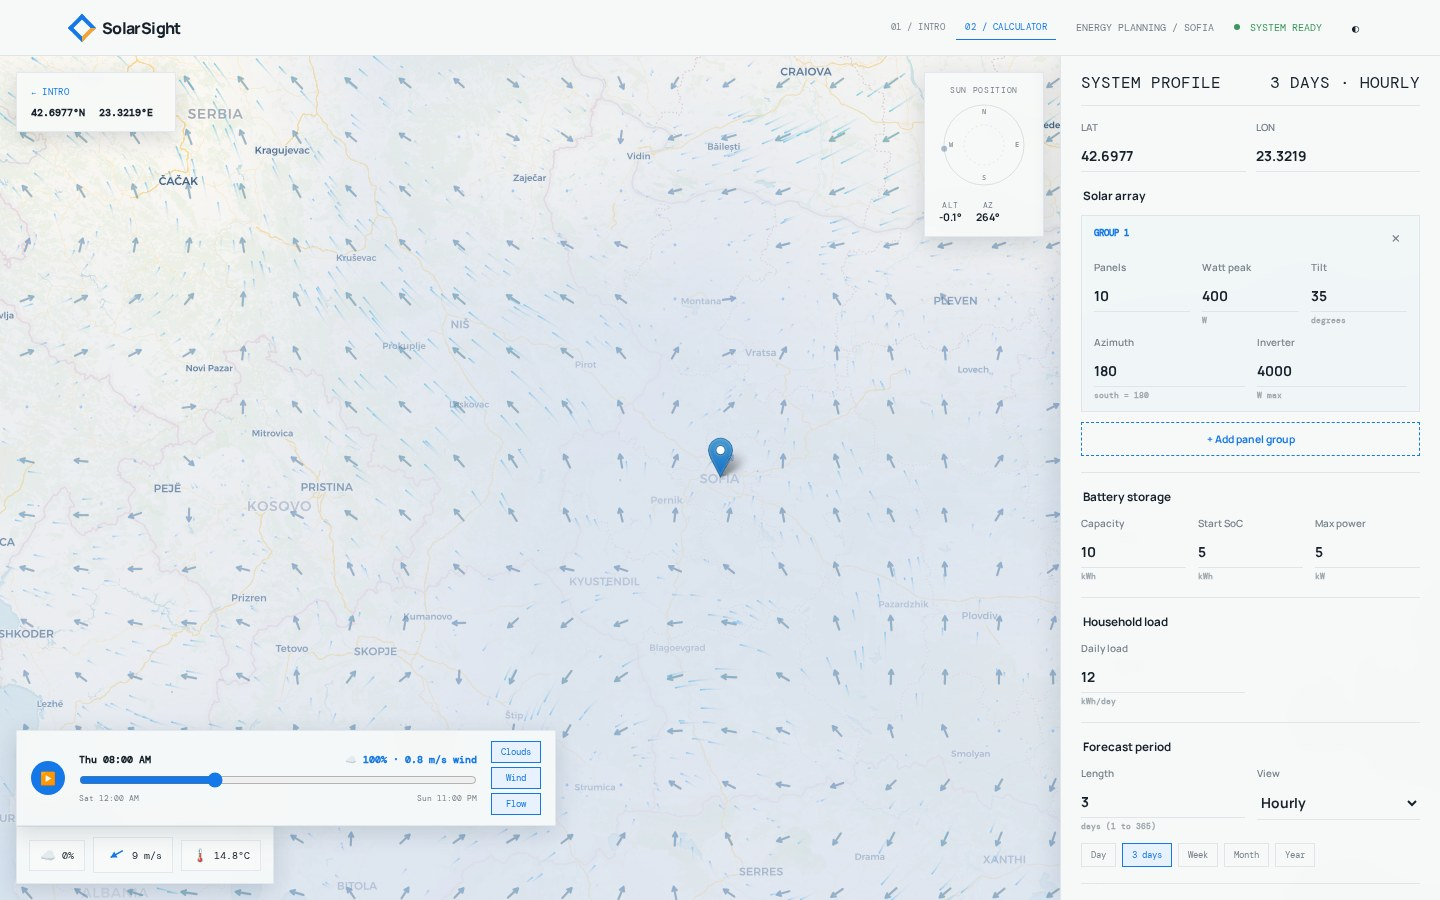
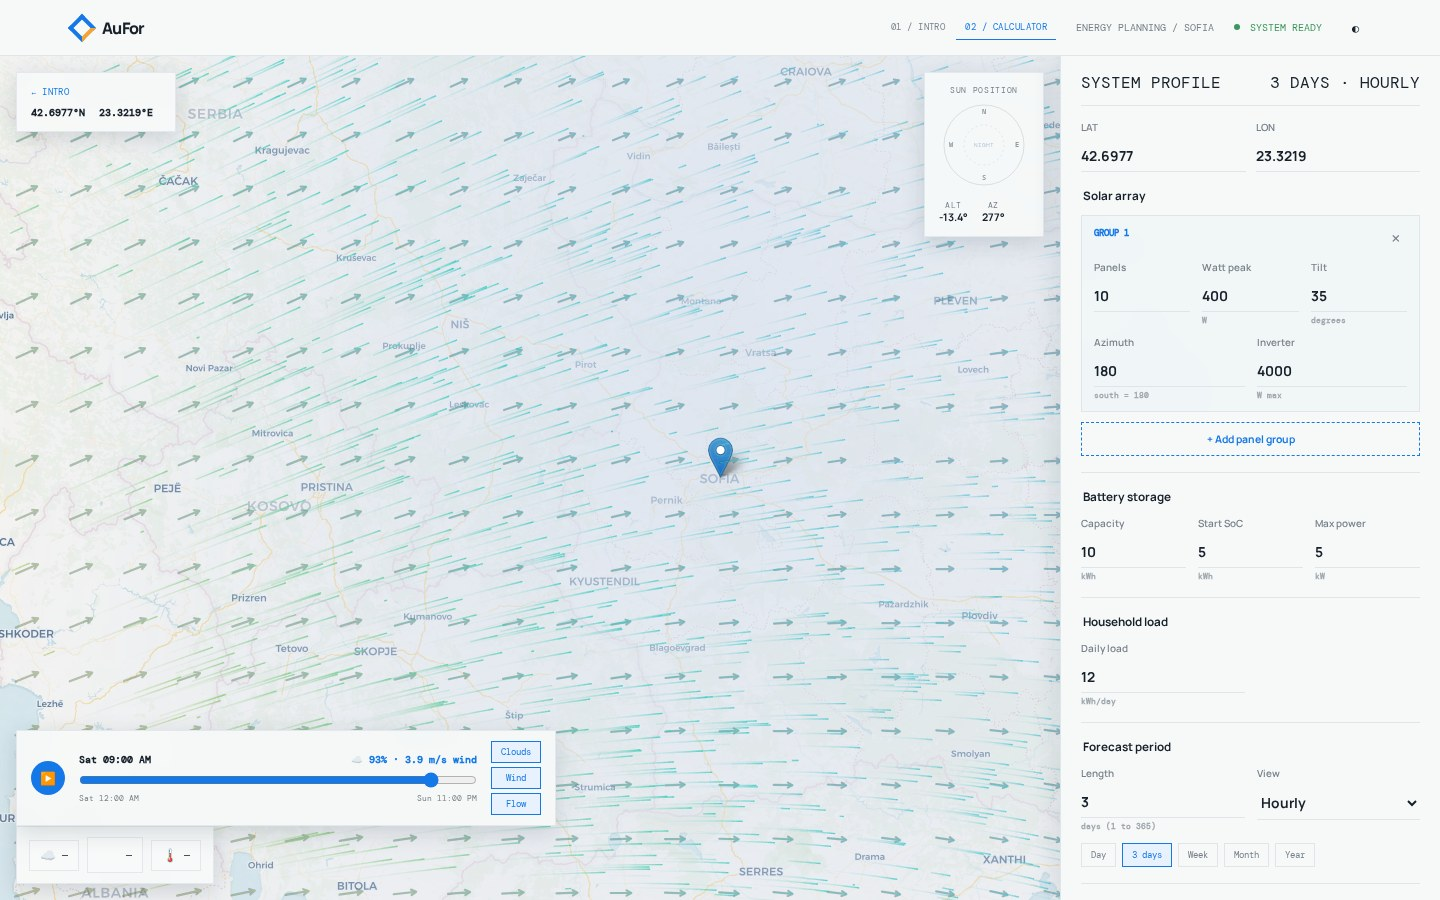
chore: rename the project to AuFor; friendlier weather rate-limit errors

diff --git a/static/app.js b/static/app.js
@@ -547,7 +547,7 @@ function initMap() {
   cloudPane.style.zIndex = 350;
   cloudPane.classList.add("cloud-pane");
   L.control.zoom({ position: "bottomright" }).addTo(map);
-  const cartoKey = window.SOLARSIGHT_CONFIG?.cartoApiKey;
+  const cartoKey = window.AUFOR_CONFIG?.cartoApiKey;
   const tileUrl = cartoKey
     ? `https://basemaps.cartocdn.com/rastertiles/voyager/{z}/{x}/{y}{r}.png?key=${encodeURIComponent(cartoKey)}`
     : "https://{s}.basemaps.cartocdn.com/light_all/{z}/{x}/{y}{r}.png";
@@ -841,12 +841,12 @@ function nearestFieldIndex(epoch, toleranceSeconds) {
 
 function currentEpoch() { return cloudField ? cloudField.times[timeIndex] : null; }
 
-function showHoverPill(text) {
+function showHoverPill(text, ms = 2200) {
   const pill = document.getElementById("hover-pill");
   pill.textContent = text;
   pill.hidden = false;
   clearTimeout(pillTimer);
-  pillTimer = setTimeout(() => { pill.hidden = true; }, 2200);
+  pillTimer = setTimeout(() => { pill.hidden = true; }, ms);
 }
 
 function togglePlay() {
@@ -916,7 +916,8 @@ async function loadCloudField(view) {
     payload = body;
   } catch (error) {
     if (request !== fieldRequest) return;
-    if (String(error.message).includes("zoom in")) showHoverPill("Zoom in to see the cloud forecast");
+    const reason = String(error.message || "");
+    showHoverPill(reason.includes("zoom in") ? "Zoom in to see the cloud forecast" : `Cloud map unavailable: ${reason.slice(0, 160)}`, 9000);
     if (!cloudField) timeline.hidden = true;
     return;
   }
@@ -1038,7 +1039,7 @@ function applyPreset(button) {
 /* ── Theme ───────────────────────────────────────────────────────── */
 function toggleTheme() {
   document.body.classList.toggle("dark-theme");
-  localStorage.setItem("solarsight-theme", document.body.classList.contains("dark-theme") ? "dark" : "light");
+  localStorage.setItem("aufor-theme", document.body.classList.contains("dark-theme") ? "dark" : "light");
   if (map) map.invalidateSize();
   updateSunNow(getLat(), getLon());
   renderCloudFrame();
@@ -1051,7 +1052,7 @@ function toggleTheme() {
 /* ── Boot ────────────────────────────────────────────────────────── */
 document.addEventListener("DOMContentLoaded", () => {
   addPanelGroup();
-  if (localStorage.getItem("solarsight-theme") === "dark") document.body.classList.add("dark-theme");
+  if (localStorage.getItem("aufor-theme") === "dark") document.body.classList.add("dark-theme");
 
   initView();
 

diff --git a/templates/index.html b/templates/index.html
@@ -3,7 +3,7 @@
   <head>
     <meta charset="utf-8" />
     <meta name="viewport" content="width=device-width, initial-scale=1" />
-    <title>SolarSight | Energy planning</title>
+    <title>AuFor | Energy planning</title>
     <link rel="preconnect" href="https://fonts.googleapis.com" />
     <link rel="preconnect" href="https://fonts.gstatic.com" crossorigin />
     <link href="https://fonts.googleapis.com/css2?family=DM+Mono:wght@400;500&family=Manrope:wght@400;500;600;700;800&display=swap" rel="stylesheet" />
@@ -12,9 +12,9 @@
   </head>
   <body data-view="{{ view }}">
     <header class="topbar">
-      <a class="brand" href="/" aria-label="SolarSight home">
+      <a class="brand" href="/" aria-label="AuFor home">
         <span class="brand-mark" aria-hidden="true"></span>
-        <span>SolarSight</span>
+        <span>AuFor</span>
       </a>
       <div class="topbar-meta">
         <nav class="view-tabs" aria-label="Main views">
@@ -31,9 +31,9 @@
     <div id="landing-wrap" {% if view == "calculator" %}hidden{% endif %}>
       <section id="landing-view" class="landing-view reveal">
         <div class="landing-hero">
-          <p class="kicker">SOLARSIGHT / ATANASOFF__48 / ENERGIA OKOLO NAS</p>
+          <p class="kicker">AUFOR / ATANASOFF__48 / ENERGIA OKOLO NAS</p>
           <h1>Plan the energy<br /><em>before it arrives.</em></h1>
-          <p class="hero-sub">A forecast isn't useful unless it tells you what to do. SolarSight predicts solar production, simulates your battery, and turns numbers into decisions.</p>
+          <p class="hero-sub">A forecast isn't useful unless it tells you what to do. AuFor predicts solar production, simulates your battery, and turns numbers into decisions.</p>
           <a href="/calculator" class="primary-button landing-button"><span>Open calculator</span><b>↗</b></a>
         </div>
 
@@ -279,11 +279,11 @@
       </div>
     </section>
 
-    <footer><span>SOLARSIGHT / PROTOTYPE</span><span>WEATHER + PHYSICS + DECISIONS</span></footer>
+    <footer><span>AUFOR / PROTOTYPE</span><span>WEATHER + PHYSICS + DECISIONS</span></footer>
 
     <script src="https://unpkg.com/leaflet@1.9.4/dist/leaflet.js"></script>
     <script src="https://cdn.jsdelivr.net/npm/chart.js@4.4.7/dist/chart.umd.min.js"></script>
-    <script>window.SOLARSIGHT_CONFIG = { cartoApiKey: {{ carto_api_key | tojson }} };</script>
+    <script>window.AUFOR_CONFIG = { cartoApiKey: {{ carto_api_key | tojson }} };</script>
     <script src="{{ url_for('static', path='app.js') }}?v={{ asset_v }}"></script>
   </body>
 </html>

diff --git a/scripts/make_screenshots.py b/scripts/make_screenshots.py
@@ -1,0 +1,117 @@
+#!/usr/bin/env python3
+"""Take the README screenshots from the running app (development helper, not needed to run AuFor).
+
+Starts the server on a temporary database, drives it with a headless Chromium, posts SIMULATED readings
+and saves the pictures to docs/screenshots. Needs Playwright, which is NOT in requirements.txt:
+
+    pip install playwright && python -m playwright install chromium
+    python scripts/make_screenshots.py            # real weather (needs Open-Meteo quota and internet)
+    python scripts/make_screenshots.py --mock     # bundled mock weather: works offline, clearly labelled MOCK in the page
+
+Every map fetch costs about 150 Open-Meteo calls out of the free 10,000 a day, so do not run this in a loop.
+"""
+
+from __future__ import annotations
+
+import argparse
+import os
+import subprocess
+import sys
+import tempfile
+import time
+import urllib.request
+from pathlib import Path
+
+ROOT = Path(__file__).resolve().parent.parent
+PORT = 8114
+
+
+def wait_for_server(url: str) -> None:
+    for _ in range(100):
+        try:
+            urllib.request.urlopen(url + "/api/health", timeout=1)
+            return
+        except OSError:
+            time.sleep(0.2)
+    raise RuntimeError("the server did not start")
+
+
+def take(url: str, out: Path, env: dict) -> None:
+    from playwright.sync_api import sync_playwright  # noqa: PLC0415 - only needed by this script
+
+    jpeg = {"type": "jpeg", "quality": 88}
+    with sync_playwright() as playwright:
+        browser = playwright.chromium.launch()
+        page = browser.new_page(viewport={"width": 1440, "height": 900})
+        page.goto(url + "/")
+        page.wait_for_load_state("networkidle")
+        page.wait_for_timeout(900)
+        page.screenshot(path=str(out / "intro.jpg"), **jpeg)
+
+        page.goto(url + "/calculator")
+        page.wait_for_selector("#map-timeline:not([hidden])", timeout=30000)
+        page.wait_for_timeout(2500)
+        cloudiest = page.evaluate(
+            "(() => { let best = 0, top = -1; for (let i = 0; i < cloudField.times.length; i++) "
+            "{ const s = conditionsAtSite(i); if (s && s.cloud > top) { top = s.cloud; best = i; } } return best; })()"
+        )
+        page.evaluate(f"setTimeIndex({cloudiest})")
+        page.wait_for_timeout(2200)
+        print("cloudiest hour:", page.inner_text("#tl-time"), "|", page.inner_text("#tl-cloud"))
+        page.screenshot(path=str(out / "map-clouds-wind.jpg"), **jpeg)
+        page.click("#toggle-flow")
+        page.wait_for_timeout(2800)
+        page.screenshot(path=str(out / "map-wind-flow.jpg"), **jpeg)
+        page.click("#toggle-flow")
+
+        subprocess.run([sys.executable, str(ROOT / "scripts" / "fake_readings.py"), "--server", url, "--step-minutes", "10", "--seed", "1"],
+                       env=env, capture_output=True, cwd=ROOT)
+        page.click("#forecast-button")
+        page.wait_for_function("document.getElementById('kpi-energy').textContent !== '—'", timeout=30000)
+        page.wait_for_function("document.getElementById('readings-tag').textContent.startsWith('SIMULATED')", timeout=15000)
+        page.wait_for_timeout(1500)
+        page.evaluate("document.getElementById('results').scrollIntoView()")
+        page.wait_for_timeout(1500)
+        page.screenshot(path=str(out / "results.png"))
+        page.locator("#readings-card").screenshot(path=str(out / "live-readings.png"))
+        page.evaluate("document.querySelector('.recommendations').scrollIntoView()")
+        page.wait_for_timeout(900)
+        box = page.evaluate(
+            "(() => { const a = document.querySelector('.recommendations').getBoundingClientRect(), "
+            "z = document.querySelector('.explanation').getBoundingClientRect(); return {y: a.top, h: z.bottom - a.top}; })()"
+        )
+        page.screenshot(path=str(out / "recommendations.png"),
+                        clip={"x": 60, "y": max(0, box["y"] - 20), "width": 1320, "height": min(box["h"] + 40, 880)})
+
+        page.evaluate("window.scrollTo(0, 0)")
+        page.wait_for_timeout(500)
+        page.click("#theme-toggle")
+        page.wait_for_timeout(2500)
+        page.screenshot(path=str(out / "map-dark.jpg"), **jpeg)
+        browser.close()
+
+
+def main() -> int:
+    parser = argparse.ArgumentParser(description="Take the README screenshots.")
+    parser.add_argument("--mock", action="store_true", help="use the bundled mock weather (offline)")
+    parser.add_argument("--out", default=str(ROOT / "docs" / "screenshots"))
+    args = parser.parse_args()
+    out = Path(args.out)
+    out.mkdir(parents=True, exist_ok=True)
+    with tempfile.TemporaryDirectory() as temp:
+        env = {**os.environ, "DATABASE_PATH": str(Path(temp) / "shots.db"), "LLM_ENABLED": "0", "READINGS_API_KEY": ""}
+        env["USE_MOCK_WEATHER"] = "1" if args.mock else "0"
+        url = f"http://127.0.0.1:{PORT}"
+        server = subprocess.Popen([sys.executable, "-m", "uvicorn", "main:app", "--port", str(PORT), "--log-level", "warning"], env=env, cwd=ROOT)
+        try:
+            wait_for_server(url)
+            take(url, out, env)
+        finally:
+            server.terminate()
+            server.wait(timeout=10)
+    print("saved:", ", ".join(sorted(p.name for p in out.iterdir())))
+    return 0
+
+
+if __name__ == "__main__":
+    sys.exit(main())

diff --git a/scripts/pi_cloud_agent.py b/scripts/pi_cloud_agent.py
@@ -1,5 +1,5 @@
 #!/usr/bin/env python3
-"""Sky-camera agent for the Raspberry Pi: photo -> cloud fraction -> SolarSight server.
+"""Sky-camera agent for the Raspberry Pi: photo -> cloud fraction -> AuFor server.
 
 Runs on the machine that has the camera and tx's PyTorch model. It takes a sky photo,
 measures the cloud fraction with cloud_predictor.run (the same code tx wrote), and POSTs
@@ -72,7 +72,7 @@ def post_reading(server: str, reading: dict, api_key: str | None = None, timeout
         if error.code == 409:
             return "duplicate"  # the server already has this reading
         if error.code in (401, 403):
-            raise AuthError("the server refused the API key (check --api-key / SOLARSIGHT_API_KEY)") from error
+            raise AuthError("the server refused the API key (check --api-key / AUFOR_API_KEY)") from error
         if error.code == 429 or error.code >= 500:
             return "retry"
         detail = error.read().decode(errors="replace")[:200]
@@ -180,9 +180,9 @@ def cycle(args: argparse.Namespace) -> str:
 
 
 def parse_args(argv: list[str] | None = None) -> argparse.Namespace:
-    parser = argparse.ArgumentParser(description="Measure cloud cover from a sky photo and send it to SolarSight.")
-    parser.add_argument("--server", default=os.environ.get("SOLARSIGHT_SERVER", "http://127.0.0.1:8000"))
-    parser.add_argument("--api-key", default=os.environ.get("SOLARSIGHT_API_KEY"))
+    parser = argparse.ArgumentParser(description="Measure cloud cover from a sky photo and send it to AuFor.")
+    parser.add_argument("--server", default=os.environ.get("AUFOR_SERVER", "http://127.0.0.1:8000"))
+    parser.add_argument("--api-key", default=os.environ.get("AUFOR_API_KEY"))
     source = parser.add_mutually_exclusive_group()
     source.add_argument("--image", help="measure this photo instead of taking one")
     source.add_argument("--capture-cmd", help='camera command with {path}, e.g. "rpicam-still -n -t 500 -o {path}"')
@@ -200,7 +200,7 @@ def parse_args(argv: list[str] | None = None) -> argparse.Namespace:
 
 def main(argv: list[str] | None = None) -> int:
     args = parse_args(argv)
-    print(f"SolarSight camera agent -> {args.server} (every {args.interval:.0f}s, radius {args.radius}px)")
+    print(f"AuFor camera agent -> {args.server} (every {args.interval:.0f}s, radius {args.radius}px)")
     while True:
         print(time.strftime("%H:%M:%S"))
         try:

diff --git a/tests/test_weather.py b/tests/test_weather.py
@@ -187,3 +187,54 @@ def test_parse_weather_survives_the_daylight_saving_change() -> None:
     frame = weather.parse_weather(payload)
     assert frame.index.is_unique and frame.index.is_monotonic_increasing
     assert len(frame) >= 8
+
+
+def test_a_rate_limit_gives_a_short_readable_message_not_the_url(monkeypatch: pytest.MonkeyPatch) -> None:
+    class Limited:
+        status_code = 429
+
+        def json(self) -> dict:
+            return {"error": True, "reason": "Daily API request limit exceeded. Please try again tomorrow."}
+
+    class FakeClient:
+        def __init__(self, *, timeout: float) -> None:
+            pass
+
+        def __enter__(self) -> "FakeClient":
+            return self
+
+        def __exit__(self, *args: object) -> bool:
+            return False
+
+        def get(self, url: str, params: dict) -> object:
+            request = httpx.Request("GET", url, params={"latitude": ",".join(["42.5"] * 600)})
+            response = httpx.Response(429, json=Limited().json(), request=request)
+            response.raise_for_status()
+
+    monkeypatch.setattr(weather.httpx, "Client", FakeClient)
+    with pytest.raises(weather.WeatherError) as caught:
+        weather._get_json(weather.OPEN_METEO_URL, {})
+    message = str(caught.value)
+    assert "free request limit" in message and "try again tomorrow" in message.lower() and "USE_MOCK_WEATHER=1" in message
+    assert "latitude" not in message and len(message) < 300  # no 4 KB URL
+
+
+def test_other_http_errors_name_the_status_without_the_url(monkeypatch: pytest.MonkeyPatch) -> None:
+    class FakeClient:
+        def __init__(self, *, timeout: float) -> None:
+            pass
+
+        def __enter__(self) -> "FakeClient":
+            return self
+
+        def __exit__(self, *args: object) -> bool:
+            return False
+
+        def get(self, url: str, params: dict) -> object:
+            response = httpx.Response(503, text="down", request=httpx.Request("GET", url))
+            response.raise_for_status()
+
+    monkeypatch.setattr(weather.httpx, "Client", FakeClient)
+    with pytest.raises(weather.WeatherError, match="Open-Meteo answered HTTP 503") as caught:
+        weather._get_json(weather.OPEN_METEO_URL, {})
+    assert "http" not in str(caught.value).lower().replace("http 503", "")

diff --git a/app/weather.py b/app/weather.py
@@ -1,4 +1,4 @@
-"""Fetch and parse hourly weather data for SolarSight.
+"""Fetch and parse hourly weather data for AuFor.
 
 This module owns Open-Meteo access and the offline mock-weather switch. It does
 not calculate solar power, simulate batteries, or translate errors into HTTP responses.
@@ -110,12 +110,26 @@ def parse_weather(payload: dict[str, Any]) -> pd.DataFrame:
     return frame
 
 
+def _status_message(response: httpx.Response) -> str:
+    """A short, readable reason for an HTTP error (never the request URL, which can be thousands of characters)."""
+    try:
+        reason = str(response.json().get("reason", ""))
+    except ValueError:
+        reason = ""
+    if response.status_code == 429:
+        return (f"Open-Meteo's free request limit is used up for now ({reason or 'HTTP 429'}). "
+                "Try again later, or run with USE_MOCK_WEATHER=1 to work offline")
+    return f"Open-Meteo answered HTTP {response.status_code}" + (f": {reason}" if reason else "")
+
+
 def _get_json(url: str, params: dict[str, Any]) -> dict[str, Any]:
     try:
         with httpx.Client(timeout=WEATHER_TIMEOUT_SECONDS) as client:
             response = client.get(url, params=params)
             response.raise_for_status()
             return response.json()
+    except httpx.HTTPStatusError as error:
+        raise WeatherError(f"Unable to fetch weather: {_status_message(error.response)}") from error
     except (httpx.HTTPError, ValueError) as error:
         raise WeatherError(f"Unable to fetch weather from Open-Meteo: {error}") from error
 

diff --git a/scripts/fake_readings.py b/scripts/fake_readings.py
@@ -128,8 +128,8 @@ def run_once(args: argparse.Namespace, request: dict, rng: random.Random) -> dic
 
 def parse_args(argv: list[str] | None = None) -> argparse.Namespace:
     parser = argparse.ArgumentParser(description="Post SIMULATED power readings for the calibration demo.")
-    parser.add_argument("--server", default=os.environ.get("SOLARSIGHT_SERVER", "http://127.0.0.1:8000"))
-    parser.add_argument("--api-key", default=os.environ.get("SOLARSIGHT_API_KEY"))
+    parser.add_argument("--server", default=os.environ.get("AUFOR_SERVER", "http://127.0.0.1:8000"))
+    parser.add_argument("--api-key", default=os.environ.get("AUFOR_API_KEY"))
     parser.add_argument("--config", help="JSON file with a forecast request (default: the page's default system)")
     parser.add_argument("--bias", type=float, default=0.92, help="the fake system produces this share of what PR 0.80 predicts")
     parser.add_argument("--noise", type=float, default=0.08, help="standard deviation of the relative noise")

diff --git a/main.py b/main.py
@@ -1,4 +1,4 @@
-"""FastAPI entry point for SolarSight.
+"""FastAPI entry point for AuFor.
 
 This module owns application assembly and basic HTTP routes. Forecast calculations
 belong in the domain modules described by bible.md.
@@ -19,7 +19,7 @@ from app.routes import router as api_router
 
 BASE_DIR = Path(__file__).resolve().parent
 
-app = FastAPI(title="SolarSight")
+app = FastAPI(title="AuFor")
 app.add_middleware(GZipMiddleware, minimum_size=1000)
 app.mount("/static", StaticFiles(directory=BASE_DIR / "static"), name="static")
 templates = Jinja2Templates(directory=BASE_DIR / "templates")

diff --git a/tests/test_smoke.py b/tests/test_smoke.py
@@ -146,7 +146,7 @@ def test_every_page_and_endpoint_answers() -> None:
     assert client.get("/api/health").json() == {"status": "ok"}
     for path in ("/", "/calculator"):
         page = client.get(path)
-        assert page.status_code == 200 and "SolarSight" in page.text
+        assert page.status_code == 200 and "AuFor" in page.text
     for asset in ("/static/app.js", "/static/style.css"):
         assert client.get(asset).status_code == 200
     field = client.get("/api/cloud-field", params={"south": 41.5, "west": 21.7, "north": 43.9, "east": 24.9, "hours": 48}).json()

diff --git a/app/models.py b/app/models.py
@@ -1,4 +1,4 @@
-"""Pydantic schemas for the SolarSight API.
+"""Pydantic schemas for the AuFor API.
 
 This module validates API data and describes response shapes. It does not perform
 forecast calculations, access the network, or write to SQLite.

diff --git a/app/routes.py b/app/routes.py
@@ -1,4 +1,4 @@
-"""HTTP routes for the SolarSight API.
+"""HTTP routes for the AuFor API.
 
 Routes validate and serialize requests only; the calculation lives in app.pipeline.
 Recommendations come from app.advisor.

diff --git a/app/__init__.py b/app/__init__.py
@@ -1,1 +1,1 @@
-"""SolarSight application package."""
+"""AuFor application package."""
